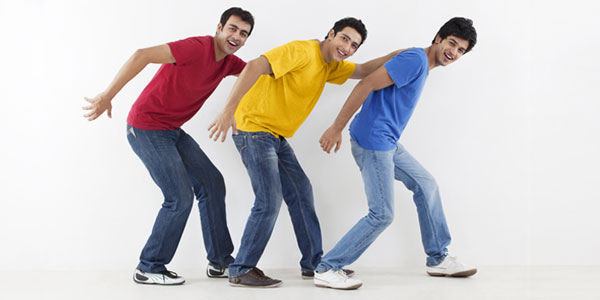
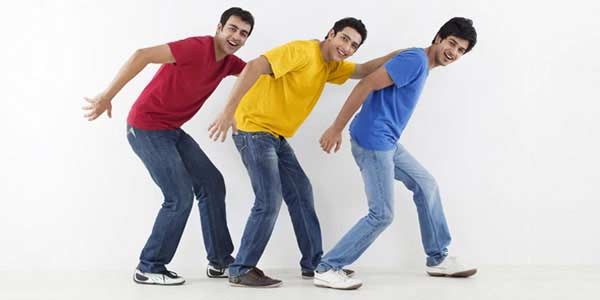
added compressed images to home page

diff --git a/templates/project-details.html b/templates/project-details.html
@@ -119,7 +119,7 @@
                         <span>Amenities <span class="roofpikGreen">({{allRatings.amenities}})</span></span>
                         <span class="overall-ratings">
                                 <span ng-repeat="rate in [1,2,3,4,5] track by $index" >
-                                    <i class="material-icons" ng-class="($index<=(allRatings.amenities-1))?'golden':'grey'" style="font-size:12px;">grade</i>
+                                    <i class="material-icons" ng-class="($index<=(allRatings.amenities1-1))?'golden':'grey'" style="font-size:12px;">grade</i>
                                 </span>
                         </span>
                     </p>
@@ -127,7 +127,7 @@
                         <span>Security <span class="roofpikGreen">({{allRatings.security}})</span></span>
                         <span class="overall-ratings">
                                 <span ng-repeat="rate in [1,2,3,4,5] track by $index" >
-                                    <i class="material-icons" ng-class="($index<=(allRatings.security-1))?'golden':'grey'" style="font-size:12px;">grade</i>
+                                    <i class="material-icons" ng-class="($index<=(allRatings.security1-1))?'golden':'grey'" style="font-size:12px;">grade</i>
                                 </span>
                         </span>
                     </p>
@@ -135,7 +135,7 @@
                         <span>Open And Green Areas <span class="roofpikGreen">({{allRatings.openAndGreenAreas}})</span></span>
                         <span class="overall-ratings">
                                 <span ng-repeat="rate in [1,2,3,4,5] track by $index" >
-                                    <i class="material-icons" ng-class="($index<=(allRatings.openAndGreenAreas-1))?'golden':'grey'" style="font-size:12px;">grade</i>
+                                    <i class="material-icons" ng-class="($index<=(allRatings.openAndGreenAreas1-1))?'golden':'grey'" style="font-size:12px;">grade</i>
                                 </span>
                         </span>
                     </p>
@@ -143,7 +143,7 @@
                         <span>Electricity And Water Supply <span class="roofpikGreen">({{allRatings.electricityAndWaterSupply}})</span></span>
                         <span class="overall-ratings">
                                 <span ng-repeat="rate in [1,2,3,4,5] track by $index" >
-                                <i class="material-icons" ng-class="($index<=(allRatings.electricityAndWaterSupply-1))?'golden':'grey'" style="font-size:12px;">grade</i>
+                                <i class="material-icons" ng-class="($index<=(allRatings.electricityAndWaterSupply1-1))?'golden':'grey'" style="font-size:12px;">grade</i>
                                 </span>
                         </span>
                     </p>
@@ -151,7 +151,7 @@
                         <span>Convenience Of House Maids <span class="roofpikGreen">({{allRatings.convenienceOfHouseMaids}})</span></span>
                         <span class="overall-ratings">
                                 <span ng-repeat="rate in [1,2,3,4,5] track by $index" >
-                                    <i class="material-icons" ng-class="($index<=(allRatings.convenienceOfHouseMaids-1))?'golden':'grey'" style="font-size:12px;">grade</i>
+                                    <i class="material-icons" ng-class="($index<=(allRatings.convenienceOfHouseMaids1-1))?'golden':'grey'" style="font-size:12px;">grade</i>
                                 </span>
                         </span>
                     </p>
@@ -159,7 +159,7 @@
                         <span>Convenience Of Parking <span class="roofpikGreen">({{allRatings.convenienceOfParking}})</span></span>
                         <span class="overall-ratings">
                                 <span ng-repeat="rate in [1,2,3,4,5] track by $index" >
-                                    <i class="material-icons" ng-class="($index<=(allRatings.convenienceOfParking-1))?'golden':'grey'" style="font-size:12px;">grade</i>
+                                    <i class="material-icons" ng-class="($index<=(allRatings.convenienceOfParking1-1))?'golden':'grey'" style="font-size:12px;">grade</i>
                                 </span>
                         </span>
                     </p>

diff --git a/js/controllers/project-details.controller.js b/js/controllers/project-details.controller.js
@@ -79,6 +79,24 @@ app.controller('projectDetailsCtrl', function($scope, $timeout, $stateParams, $r
                     $("#goodStar").css("width", ($scope.allRatings.threeStar / $scope.allRatings.overallRatingNum) * 100 + '%');
                     $("#averageStar").css("width", ($scope.allRatings.twoStar / $scope.allRatings.overallRatingNum) * 100 + '%');
                     $("#badStar").css("width", ($scope.allRatings.oneStar / $scope.allRatings.overallRatingNum) * 100 + '%');
+                    if($scope.allRatings.amenities){
+                       $scope.allRatings.amenities1 = Math.round($scope.allRatings.amenities); 
+                    }
+                    if($scope.allRatings.security){
+                       $scope.allRatings.security1 = Math.round($scope.allRatings.security); 
+                    }
+                    if($scope.allRatings.openAndGreenAreas){
+                       $scope.allRatings.openAndGreenAreas1 = Math.round($scope.allRatings.openAndGreenAreas); 
+                    }
+                    if($scope.allRatings.electricityAndWaterSupply){
+                       $scope.allRatings.electricityAndWaterSupply1 = Math.round($scope.allRatings.electricityAndWaterSupply); 
+                    }
+                    if($scope.allRatings.convenienceOfHouseMaids){
+                       $scope.allRatings.convenienceOfHouseMaids1 = Math.round($scope.allRatings.convenienceOfHouseMaids); 
+                    }
+                    if($scope.allRatings.convenienceOfParking){
+                       $scope.allRatings.convenienceOfParking1 = Math.round($scope.allRatings.convenienceOfParking); 
+                    }
                     $scope.dataLoaded = true;
                 }, 50);
             })

diff --git a/templates/home.html b/templates/home.html
@@ -52,7 +52,7 @@
                 </div>
                 <div class="image-box" flex="20" flex-xs="100" flex-sm="100" ng-click="takeToProjectList('petFriendly')">
                     <div class="image">
-                        <img src="http://www.thegrandpet.com/wp-content/uploads/2010/04/dog-running-with-ball.jpg" alt="" />
+                        <img src="images/home/petFriendly.jpg" alt="" />
                         <h2>Pet Friendly</h2>
                     </div>
                 </div>
